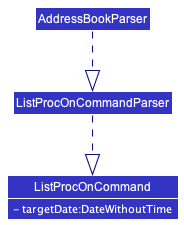
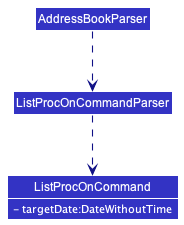
Update DG to add in Procedure class and its dependencies

Changed region(s): [[0.462, 0.6844, 0.5435, 0.7778], [0.462, 0.3111, 0.5435, 0.4044]]

diff --git a/docs/DeveloperGuide.md b/docs/DeveloperGuide.md
@@ -10,11 +10,11 @@ title: Developer Guide
 
 ### **Purpose**
 
-This developer's guide clarifies the project architecture as well as  software design decisions for **Networkers**.
+This developer's guide clarifies the project architecture as well as software design decisions for **Networkers**.
 This guide will also look at how individual features are implemented in this project.
 
 *Networkers* is a **desktop app for managing contacts for network technicians,
-optimised for use via a Command Line Interface** (CLI)
+optimised for use via a Command Line Interface** (CLI) 
 while still having the benefits of a Graphical User Interface (GUI).
 
 ### **Intended Audience**
@@ -96,7 +96,7 @@ The **API** of this component is specified in [`Ui.java`](https://github.com/se-
 
 ![Structure of the UI Component](images/UiClassDiagram.png)
 
-The UI consists of a `MainWindow` that is made up of parts e.g.`CommandBox`, `ResultDisplay`, `ClientListPanel`, `StatusBarFooter` etc. All these, including the `MainWindow`, inherit from the abstract `UiPart` class which captures the commonalities between classes that represent parts of the visible GUI.
+The UI consists of a `MainWindow` that is made up of parts e.g.`CommandBox`, `ResultDisplay`, `ClientListPanel`, `ProcedureListPanel`, `StatusBarFooter` etc. All these, including the `MainWindow`, inherit from the abstract `UiPart` class which captures the commonalities between classes that represent parts of the visible GUI.
 
 The `UI` component uses the JavaFx UI framework. The layout of these UI parts are defined in matching `.fxml` files that are in the `src/main/resources/view` folder. For example, the layout of the [`MainWindow`](https://github.com/se-edu/addressbook-level3/tree/master/src/main/java/seedu/address/ui/MainWindow.java) is specified in [`MainWindow.fxml`](https://github.com/se-edu/addressbook-level3/tree/master/src/main/resources/view/MainWindow.fxml)
 
@@ -118,7 +118,7 @@ Here's a (partial) class diagram of the `Logic` component:
 How the `Logic` component works:
 1. When `Logic` is called upon to execute a command, it uses the `AddressBookParser` class to parse the user command.
 1. This results in a `Command` object (more precisely, an object of one of its subclasses e.g., `AddCommand`) which is executed by the `LogicManager`.
-1. The command can communicate with the `Model` when it is executed (e.g. to add a client).
+1. The command can communicate with the `Model` when it is executed (e.g. to add a Client).
 1. The result of the command execution is encapsulated as a `CommandResult` object which is returned back from `Logic`.
 
 The Sequence Diagram below illustrates the interactions within the `Logic` component for the `execute("delete 1")` API call.
@@ -179,9 +179,9 @@ This section describes some noteworthy details on how certain features are imple
 
 ### Add Procedure (AddProc)
 
-The proposed undo/redo mechanism is facilitated by `AddProcCommand`. It extends `Command` taking in a new `Procedure` and `Index` which points to the client that it wishes to edit. It will also interact with `Storage` in order to store the information about the new procedure added. This operation is exposed in the `Model` interface as `Model#setProcedures()`.
+This mechanism is facilitated by `AddProcCommand`. It extends `Command` taking in a new `Procedure` and `Index` which points to the Client that it wishes to edit. It will also interact with `Storage` in order to store the information about the new Procedure added. This operation is exposed in the `Model` interface as `Model#setProcedures()`.
 
-In general, the `addProc` command is a command that takes in a string with specified prefixes and a client index. It will indicate new procedures that clients have added to their procedure list. If an invalid command (whether by index or prefix error), a respective exception will be thrown.
+In general, the `addProc` command is a command that takes in a string with specified prefixes and a Client index. It will indicate new Procedures that Clients have added to their Procedure list. If an invalid command (whether by index or prefix error), a respective exception will be thrown.
 
 The Sequence Diagram below illustrates the interactions within the `Logic` component for the `addProc` API call.:
 
@@ -195,14 +195,13 @@ Step 3. This will result in a new `Procedure` object (based on the user inputs) 
 
 Step 4. With this, `LogicManager` will call `AddProcCommand` to execute.
 
-Step 5. Within `AddProcCommand`, it will retrieve the `Client` that needs to be added a new `Procedure` and add the new `Procedure` into its procedure list.
+Step 5. Within `AddProcCommand`, it will retrieve the `Client` that needs to be added a new `Procedure` and add the new `Procedure` into its Procedure list.
 
 Step 6. Once the `Client` has been updated to include the new `Procedure`, it will update `ModelManager` with the updated `Client` to reflect this change.
 
-
 ### Delete Procedures from a Client (DeleteProc)
 
-The proposed deleteProc mechanism is facilitated by the `DeleteProcCommandParser`.
+The deleteProc mechanism is facilitated by the `DeleteProcCommandParser`.
 The deleteProc mechanism allows deletion of a `Procedure` from an existing `Client` in the address book.
 The deleteProc is permanently erased and the remaining `Procedure` are stored locally after.
 It implements the following operations:
@@ -216,12 +215,12 @@ The `editClientProcedure(Client clientToEdit)` operation is exposed in the `Mode
 
 Given below is an example usage scenario and how the deleteProc mechanism behaves at each step.
 
-Step 1. The user finds the `Procedure` that the client has using `findProc <Index>`
-The UI lists all the `Procedure` associated to the client and would like to delete one.
+Step 1. The user finds the `Procedure` that the Client has using `findProc <Index>`
+The UI lists all the `Procedure` associated to the Client and would like to delete one.
 
 ![DeleteProcState0](images/DeleteProcState0.png)
 
-Step 2. The user executes `deleteProc 1 1` to delete the 1st `Procedure` associated with the 1st client in the address book.
+Step 2. The user executes `deleteProc 1 1` to delete the 1st `Procedure` associated with the 1st Client in the address book.
 The `deleteProc 1 1` command calls `DeleteProcCommand#(Client clientToEdit)`, which calls the `deleteProcedure(List<Procedure procedureList)` method to remove the `Procedure` from the list.
 This newly-created `Client` is saved locally through the `Model#setClient`, and displayed by updating the `UpdateFilteredClientList`.
 With the `Client` saved, the address book is saved at a new state.
@@ -237,11 +236,10 @@ The following sequence diagram shows how this operation works.
 **Aspect: Will `deleteProc` permanently delete the `Procedure`**
 
 * **Alternative 1 (current choice):** Deletes the entire Procedure.
-    * Pros: Easy to implement and use less stoage.
+    * Pros: Easy to implement and uses less storage.
     * Cons: Users might find it hard to retrieve pre-existing data of the user.
 
-* **Alternative 2:** Create a deleted status for the `Procedure` and only allow vision of undeleted `Procedure`.
-  itself.
+* **Alternative 2:** Create a deleted status for the `Procedure` and only allow vision of undeleted `Procedure` itself.
     * Pros: User could easily retrieve previous deleted data.
     * Cons: Can get storage-expensive, which makes future parsing slower.
     
@@ -249,7 +247,7 @@ The following sequence diagram shows how this operation works.
 
 Lists the Procedures for the given input index of a Client.
 
-If the Client doesn't have any procedures, it prints out a different message indicating that. Otherwise, it will simply
+If the Client doesn't have any Procedures, it prints out a different message indicating that. Otherwise, it will simply
 print out the success message on result window and update the right column of the UI.
 
 Below is the sequence diagram for executing ListProcCommand as a user.
@@ -261,21 +259,21 @@ Step 2: User calls the "listProc 1" command
 
 Step 3: LogicManager handles the command from user
 
-Step 4: ModelManager updates the procedure list accordingly and returns to LogicManager
+Step 4: ModelManager updates the Procedure list accordingly and returns to LogicManager
 
 Step 5: UI takes the return value from LogicManager and updates the UI
 
 **Why did I implement ListProcCommand this way?**
 
 In other functions like find, it doesn't seem that an explicit UI update was necessary.
-However, even when I update the procedure list correctly, the UI didn't get updated automatically.
-Therefore, after correctly updating the procedure list, I update the UI in MainWindow executeCommand method
+However, even when I update the Procedure list correctly, the UI didn't get updated automatically.
+Therefore, after correctly updating the Procedure list, I update the UI in MainWindow executeCommand method
 by creating a new ProcedureListPanel.
 
 ![ListProcCommand Example](images/ListProcCommandExample1.PNG)
 
 An additional point: listProc method is called in the UI before the user can input anything to display
-the first Client's procedures. This allows the user to understand exactly what the right column is for.
+the first Client's Procedures. This allows the user to understand exactly what the right column is for.
 
 ### List Procedures By Date (ListProcOn)
 
@@ -283,7 +281,7 @@ the first Client's procedures. This allows the user to understand exactly what t
 
 `ListProcOn` command takes in a date (in the form of dd/mm/yyyy) and returns the Procedures and the Clients' information attached to each of the Procedure that a technician should carry out on that requested date. <br/><br/>
 Like other Commands, user input is first parsed by `AddressBookParser`, which is then directed to `ListProcOnCommandParser`, parsing the date into `DateWithoutTime` class, and finally passing down to `ListProcOnCommand` for execution.
-Description of `DateWithoutTime` shall be omitted here since the class name is self-explanatory. The below class diagram illustrates such dependencies. <br/>
+Description of `DateWithoutTime` shall be omitted here since the class name is self-explanatory. The below simplified class diagram illustrates such dependencies. <br/>
 
 <img src="images/ListProcOnCommandClassDiagram.png" width="200" />
 
@@ -309,24 +307,24 @@ This aspect needs to be considered since it is not sufficient just to display al
 
 ### Calculate Cost By Date (Calculate)
 
-It gives functionality to the cost attribute within the procedure class by calculating total `Cost` from all procedures on a specified date.
+It gives functionality to the cost attribute within the Procedure class by calculating total `Cost` from all Procedures on a specified date.
 This provides an instance of total `Cost`, which is not stored locally.
 It implements the following operation:
 
-`Networkers#calculateCost(String date)` — returns total `Cost` from all procedures on a specified date.
+`Networkers#calculateCost(String date)` — returns total `Cost` from all Procedures on a specified date.
 
 The operation is exposed in the `Model` interface as `Model#calculateCost()`.
 
 Given below is an example usage scenario and how the calculateCost feature behaves at each step.
 
-Step 1. The user would already have procedures attributed to different clients in `Networkers`
-and would want to calculate all the costs of procedures conducted today (22/03/2022)
+Step 1. The user would already have Procedures attributed to different Clients in `Networkers`
+and would want to calculate all the costs of Procedures conducted today (22/03/2022)
 
 ![CalculateCostObjectDiagram](images/CalculateCostState1.png)
 
-Step 2. The user executes `calculate 22/03/2022` to calculate cost of all procedures on `22/03/2022`.
+Step 2. The user executes `calculate 22/03/2022` to calculate cost of all Procedures on `22/03/2022`.
 
-The following sequence diagram shows how this operation works
+The following sequence diagram shows how this operation works:
 
 ![CalculateCostObjectDiagram](images/CalculateSequenceDiagram.png)
 
@@ -334,7 +332,7 @@ The following sequence diagram shows how this operation works
 but due to a limitation of PlantUML, the lifeline reaches the end of diagram.
 
 1. The arguments passed to the logic manager will be parsed by the AddressBookParser class.
-2. If the given arguments are valid, further parsing will be carried out by the Calculate CommandParser.
+2. If the given arguments are valid, further parsing will be carried out by the CalculateCommandParser.
 3. If further parsing is successful, a new CalculateCommand object will be returned
 ##### In these parsers, invalid arguments will result in a ParseException.
 
@@ -342,11 +340,8 @@ A valid argument consists of 2 sections:
 1. valid command `calculate`
 2. valid date, `22/03/2022`
 
-A date is only valid if it follows the "dd/MM/uuuu" format and consists of a legitimate date,
+A date is only valid if it follows the "dd/MM/yyyy" format and consists of a legitimate date,
 taking leap years into account
-
-
-_{more aspects and alternatives to be added}_
 
 --------------------------------------------------------------------------------------------------------------------
 
@@ -367,7 +362,7 @@ _{more aspects and alternatives to be added}_
 **Target user profile**:
 
 * Has a need to manage a significant number of businesses (Client(s))
-* Has a need to manage different network-related procedures for his/her Client(s), such as maintaining and repairing network components like routers and modems
+* Has a need to manage different network-related Procedures for his/her Client(s), such as maintaining and repairing network components like routers and modems
 *  Prefers desktop apps over other types
 *  Can type fast
 *  Prefers typing to mouse interactions
@@ -383,13 +378,13 @@ _{more aspects and alternatives to be added}_
 
 Priorities: High (must have) - `* * *`, Medium (nice to have) - `* *`, Low (unlikely to have) - `*`
 
-| Priority | As a …                                    | I want to …                     | So that I can…                                             |
-| -------- | ------------------------------------------ | ------------------------------ | ---------------------------------------------------------------------- |
-| `* * *`  | user                                       | Add a Procedure to a Client               | Add a Procedure associated with the Client.                 |
-| `* * *`  | user                                       | delete a Procedure from an existing Client| Delete a Procedure from the existing Client.                |
-| `* * *`  | user                                       | Add a Client                              | Add a Client to my contacts                                 |
-| `* * *`  | user                                       | delete a Client                           | Delete an existing Client when the client no longer engages with the networker company.|
-| `* * *`  | user with many clients in the address book | View all of my Client(s’) contacts (number, phone number, address) and procedures| Have a brief idea about how many Client(s) and associated Procedures I have at the moment.|
+| Priority | As a …                                    | I want to …                                                                      | So that I can…                                                                            |
+| -------- |--------------------------------------------|-----------------------------------------------------------------------------------|--------------------------------------------------------------------------------------------|
+| `* * *`  | user                                       | Add a Procedure to a Client                                                       | Add a Procedure associated with the Client.                                                |
+| `* * *`  | user                                       | delete a Procedure from an existing Client                                        | Delete a Procedure from the existing Client.                                               |
+| `* * *`  | user                                       | Add a Client                                                                      | Add a Client to my contacts                                                                |
+| `* * *`  | user                                       | delete a Client                                                                   | Delete an existing Client when the Client no longer engages with the networker company.    |
+| `* * *`  | user with many Clients in the address book | View all of my Client(s’) contacts (number, phone number, address) and Procedures | Have a brief idea about how many Client(s) and associated Procedures I have at the moment. |
 
 *{More to be added}*
 
@@ -467,13 +462,13 @@ Priorities: High (must have) - `* * *`, Medium (nice to have) - `* *`, Low (unli
 
 1. User requests to list Client(s). (UC5)
 2. User sends in a command to delete the Procedure from a specific Client in the list.
-3. Networkers deletes the procedure from the Client(s).
+3. Networkers deletes the Procedure from the Client(s).
 
     Use case ends.
 
 **Extensions**
 
-* 2a. The procedure does not exist.
+* 2a. The Procedure does not exist.
 
     Use case ends.
 
@@ -525,7 +520,7 @@ Use case ends.
 ### Glossary
 
 * **Mainstream OS**: Windows, Linux, Unix, OS-X
-* **Client**: Refers to a business entity that the User is responsible for network-related procedures
+* **Client**: Refers to a business entity that the User is responsible for network-related Procedures
 * **Contact**: Refers to information for a Client, including its business name, phone number, and address.
 * **Procedure**: Refers to a network-related task that a User performs for a Client, such as fixing a router and setting up intranet.
 
@@ -557,17 +552,17 @@ testers are expected to do more *exploratory* testing.
 
 1. _{ more test cases … }_
 
-### Deleting a client
+### Deleting a Client
 
-1. Deleting a client while all clients are being shown
+1. Deleting a Client while all Clients are being shown
 
-    1. Prerequisites: List all clients using the `list` command. Multiple clients in the list.
+    1. Prerequisites: List all Clients using the `list` command. Multiple Clients in the list.
 
     1. Test case: `delete 1`<br>
        Expected: First contact is deleted from the list. Details of the deleted contact shown in the status message. Timestamp in the status bar is updated.
 
     1. Test case: `delete 0`<br>
-       Expected: No client is deleted. Error details shown in the status message. Status bar remains the same.
+       Expected: No Client is deleted. Error details shown in the status message. Status bar remains the same.
 
     1. Other incorrect delete commands to try: `delete`, `delete x`, `...` (where x is larger than the list size)<br>
        Expected: Similar to previous.
